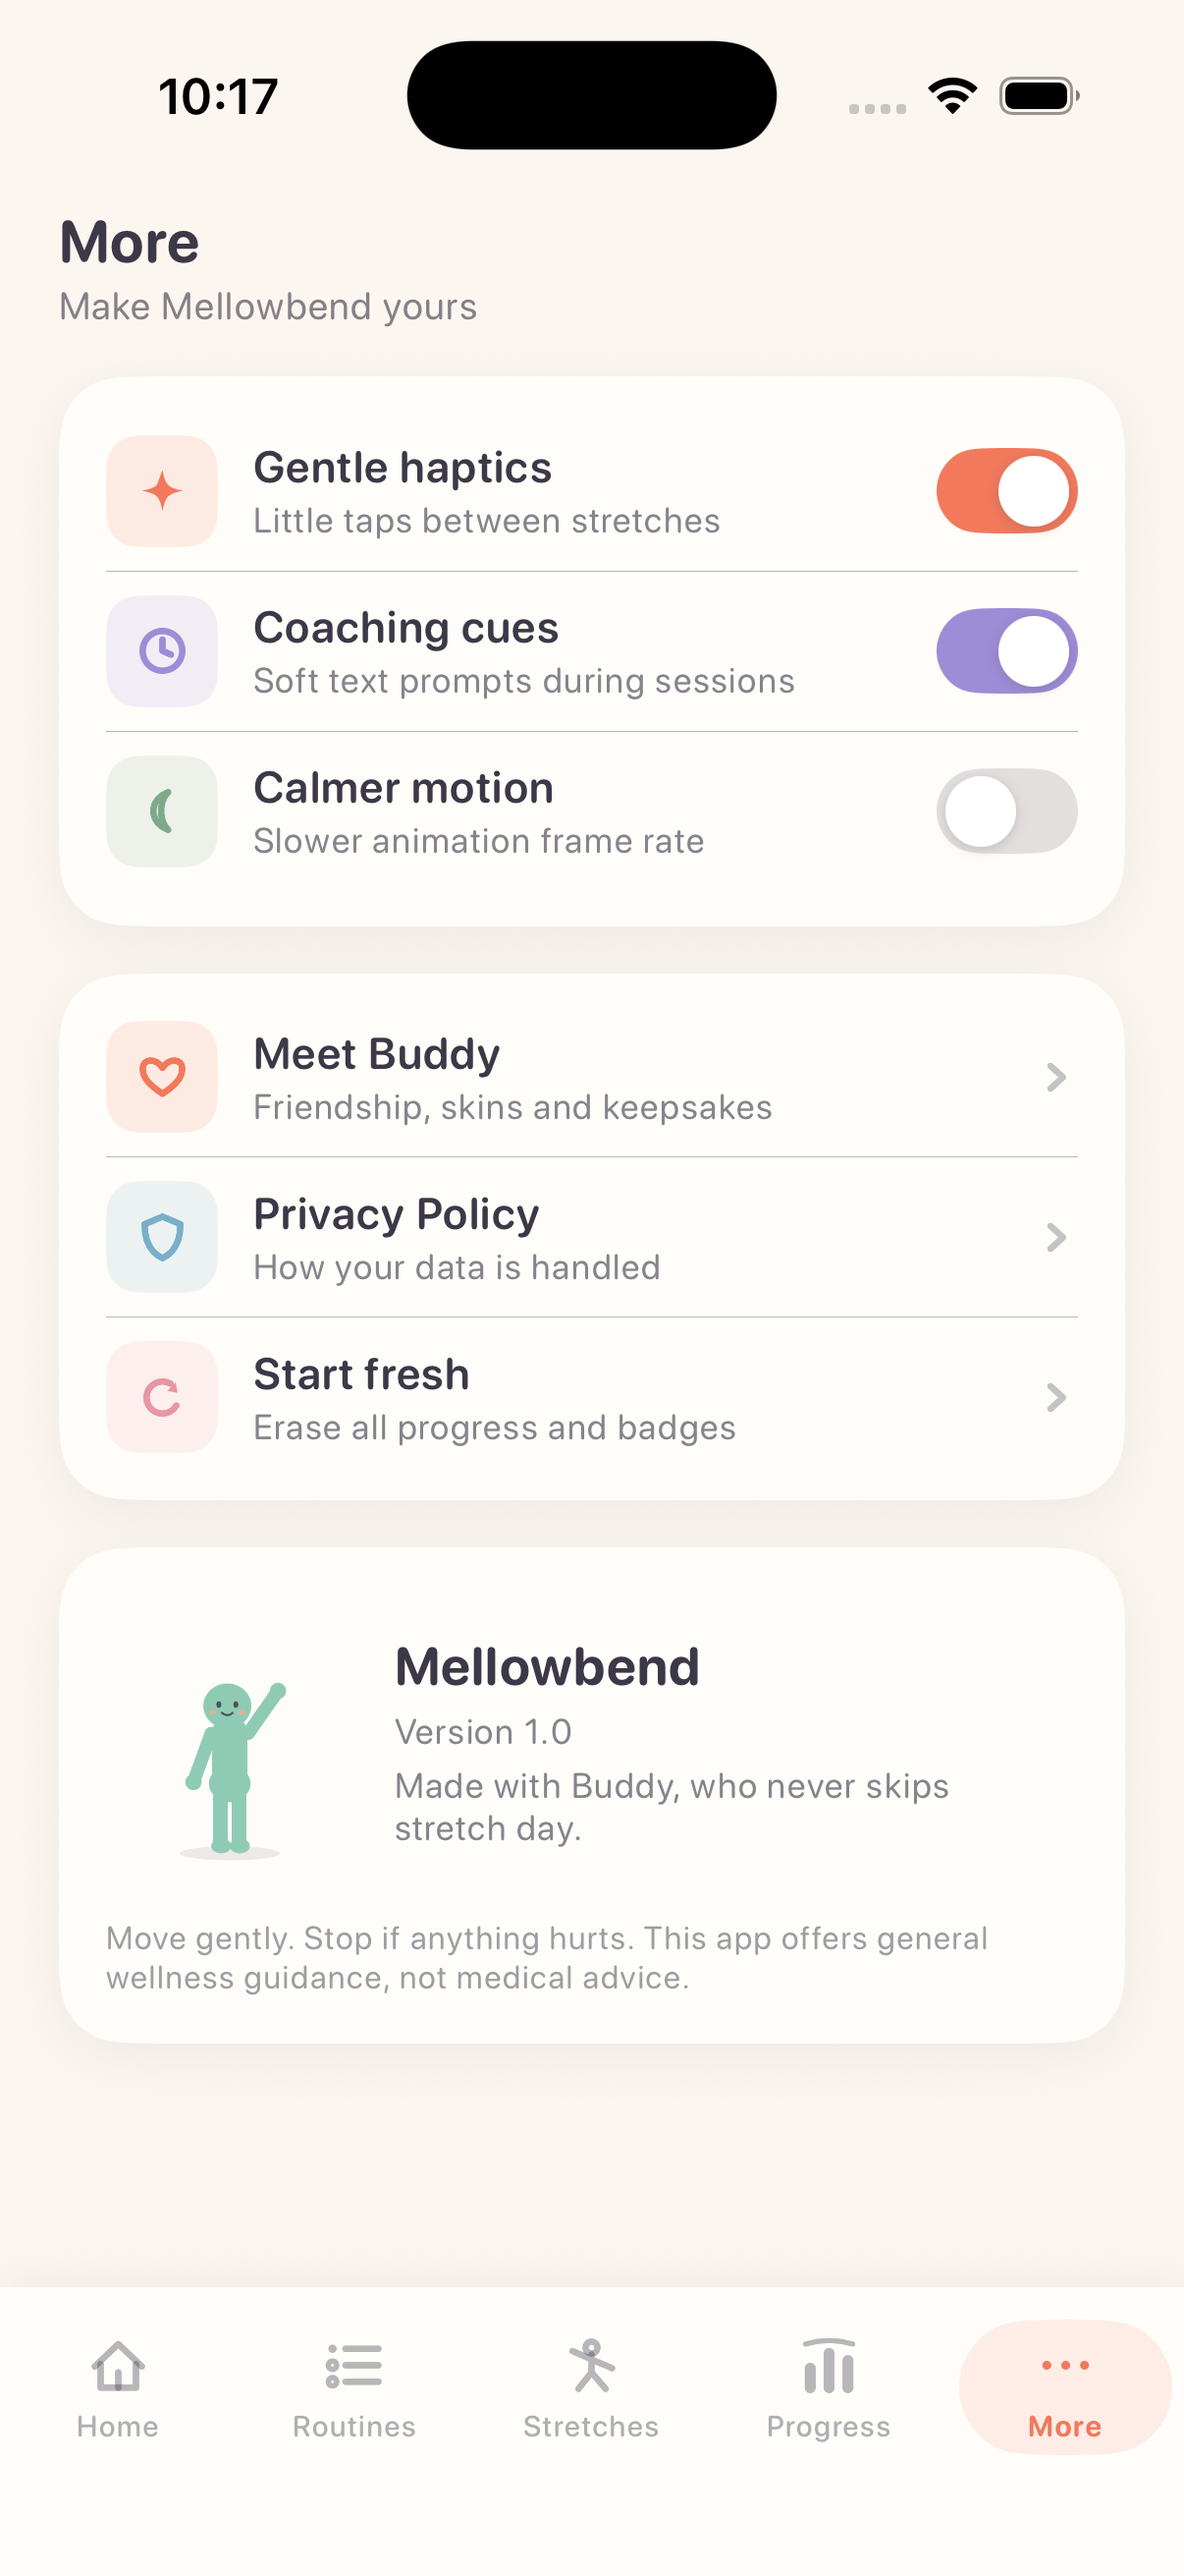
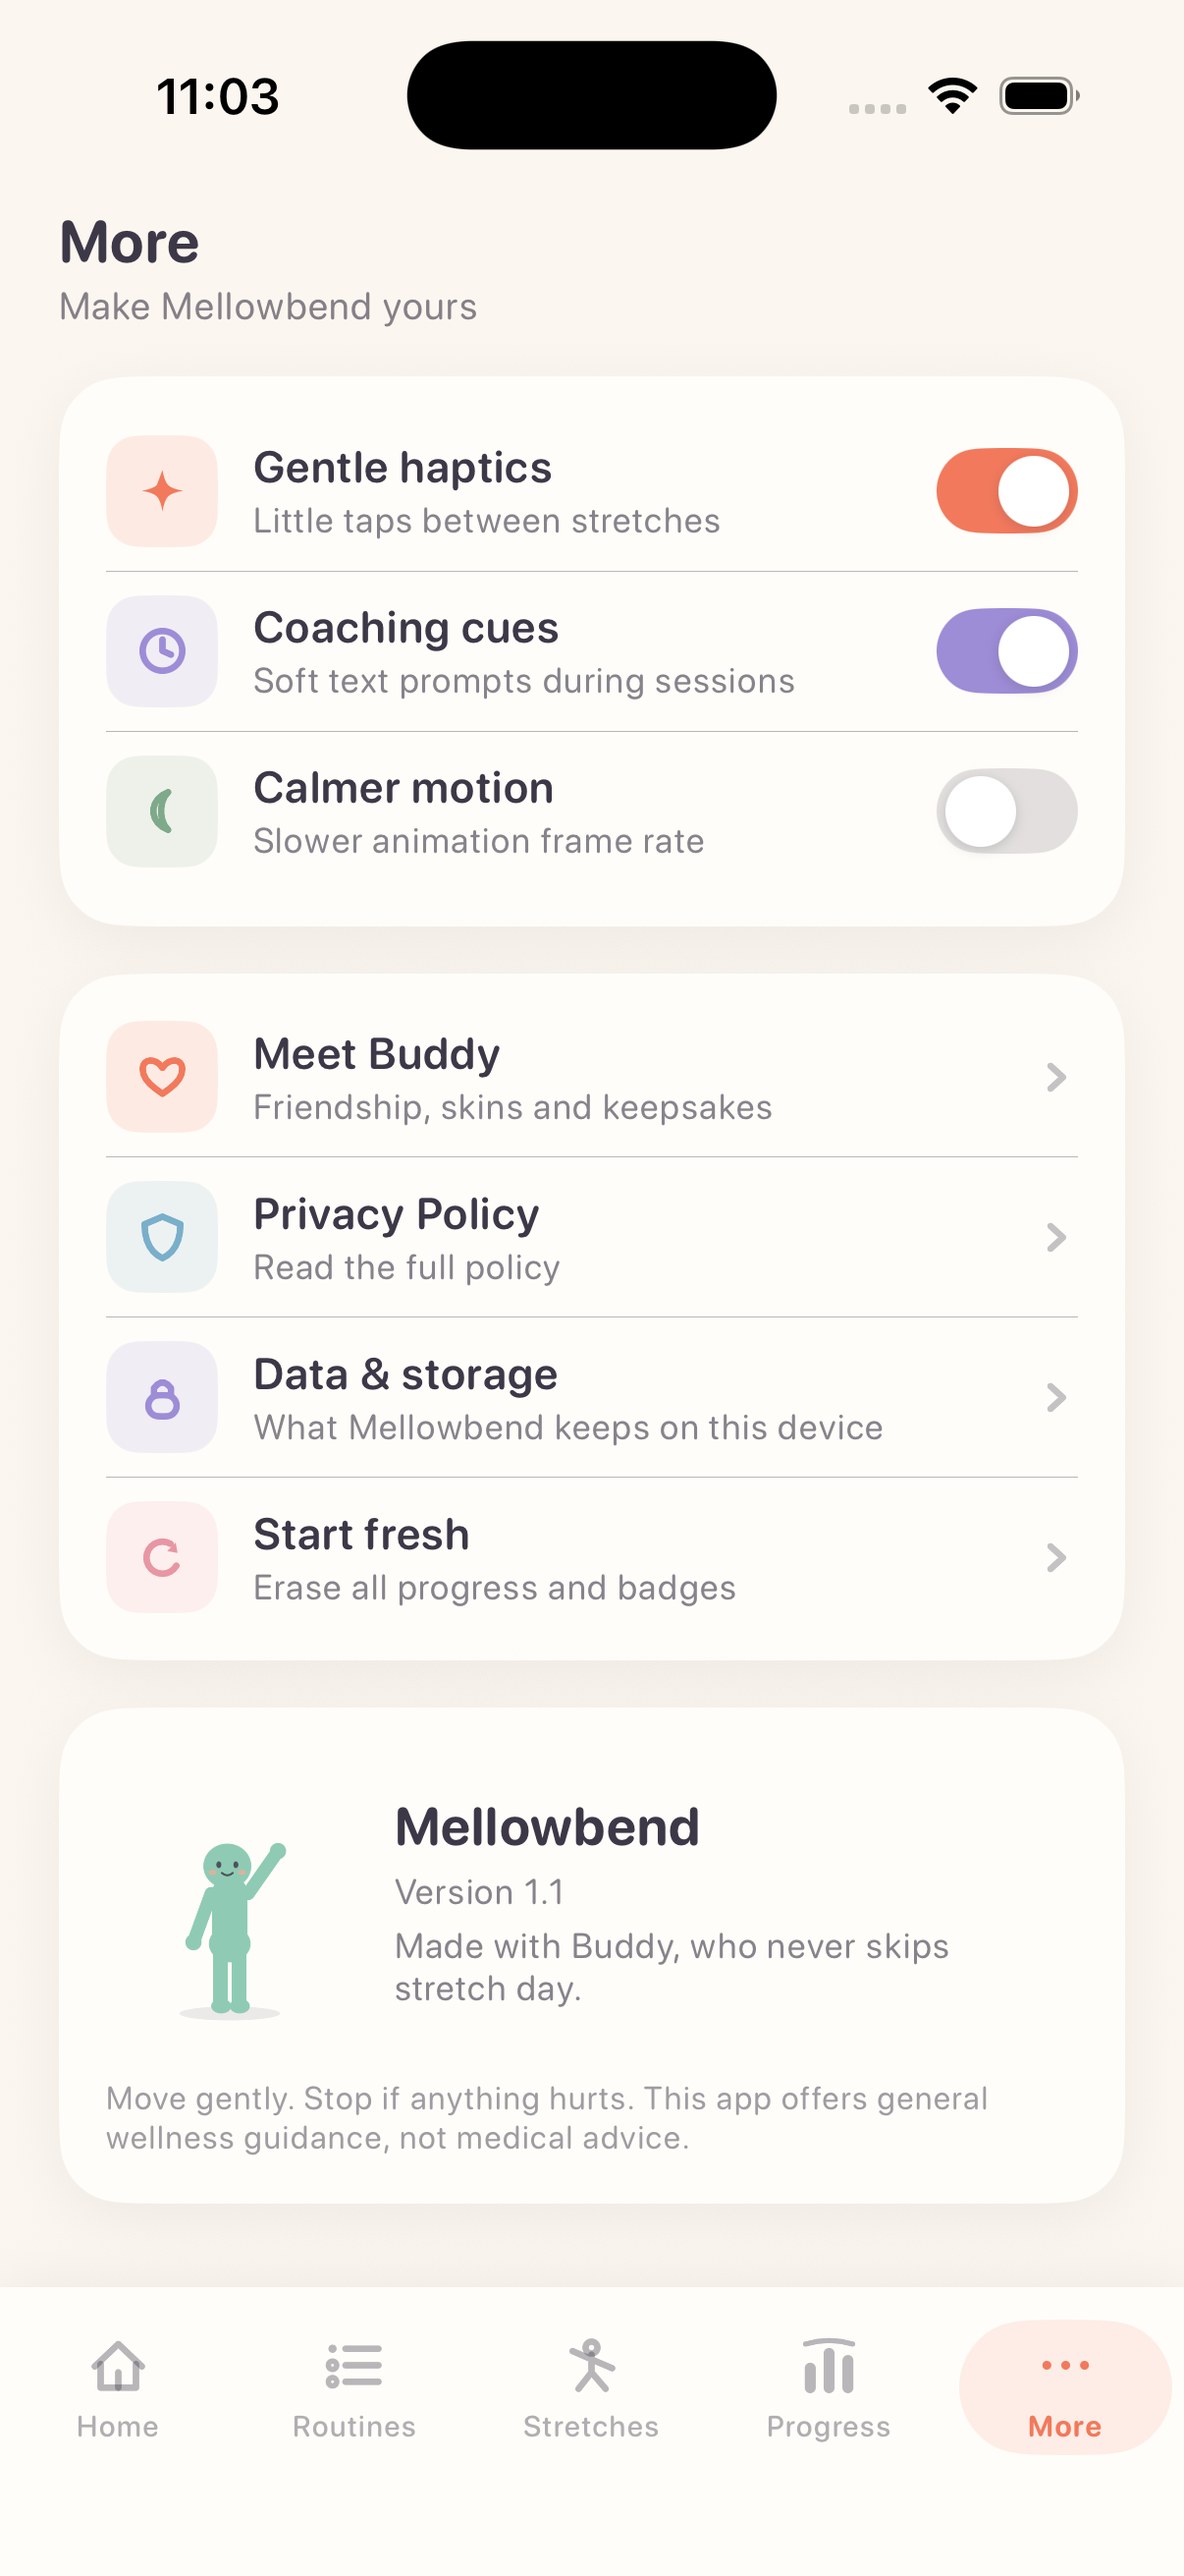
Bump to 1.1 (build 2)
Info.plist and both pbxproj configurations move to MARKETING_VERSION 1.1 /
CURRENT_PROJECT_VERSION 2. The About card text follows, and More's screenshot
is re-shot so it no longer shows 1.0 or the pre-WebView row layout.

diff --git a/Mellowbend/MoreView.swift b/Mellowbend/MoreView.swift
@@ -66,7 +66,7 @@ struct MoreView: View {
                             showPolicyPage = true
                         }
                         Divider().background(SoftTheme.line).padding(.vertical, 8)
-                        rowButton(icon: .moon, tint: SoftTheme.lavender,
+                        rowButton(icon: .lock, tint: SoftTheme.lavender,
                                   title: "Data & storage",
                                   subtitle: "What Mellowbend keeps on this device") {
                             showPrivacy = true
@@ -90,7 +90,7 @@ struct MoreView: View {
                                 Text("Mellowbend")
                                     .font(SoftTheme.display(18))
                                     .foregroundColor(SoftTheme.ink)
-                                Text("Version 1.0")
+                                Text("Version 1.1")
                                     .font(SoftTheme.body(12))
                                     .foregroundColor(SoftTheme.inkSoft)
                                 Text("Made with Buddy, who never skips stretch day.")
